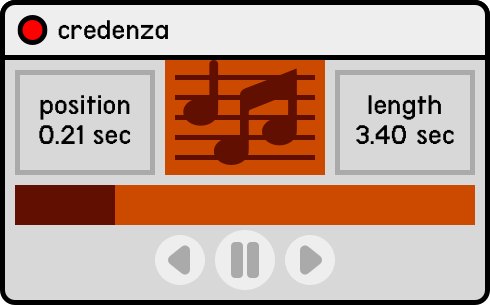
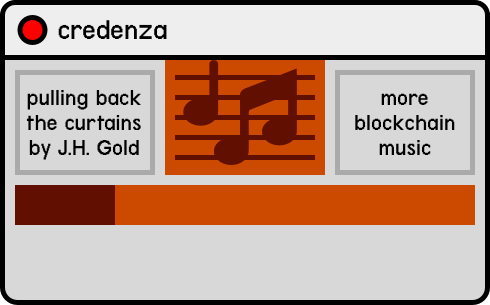
fresh

diff --git a/_sass/_windows.scss b/_sass/_windows.scss
@@ -103,7 +103,7 @@ $content-height: calc(100% - #{$header-height});
 	top: 25%;
 }
 .niftydex.window {
-	// width: 350px;
+	
 	left: 20%;
 	top: 5%;
 }
@@ -113,35 +113,35 @@ $content-height: calc(100% - #{$header-height});
 
 	img.gif {
 		position: absolute;
-		left: 166px;
-		top: 59px;
+		left: 82px;
+		top: 32px;
 		display: none;
+		width: 80px;
 	}
 
 	.link {
 		position: absolute;
-		width: 139px;
-		height: 106px;
-		border: solid 5px transparent;
-		top: 70px;
+		width: 69px;
+		height: 51px;
+		border: solid 3px #f5000000;
+		top: 36px;
 		
 		&.left {
-			left: 15px;
+			left: 8px;
 		}
 		&.right {
-			right: 15px;
+			right: 8px;
 		}
 		&:hover {
-			border: solid 7px #1000ff;
+			border: solid 4px #1000ff;
 		}
 	}
 	audio {
 		position: absolute;
-
 		left: 5%;
-		bottom: 22px;
+		bottom: 11px;
 		width: 90%;
-		height: 110px;
+		height: 29px;
 		&::-webkit-media-controls-panel {
 			background-color: #d8d8d8;
 		}
@@ -171,11 +171,11 @@ $content-height: calc(100% - #{$header-height});
 		opacity: 0;
 		position: absolute;
 
-		top: 108px;
-		left: 70px;
+		top: 79px;
+		left: 52px;
 		border-radius: 200px;
-		height: 210px;
-		width: 210px;
+		height: 150px;
+		width: 150px;
 
 		// background-color: red;
 		background-image: url(/nft/images/stargate.gif);

diff --git a/nft/js/sound.js b/nft/js/sound.js
@@ -25,9 +25,9 @@ function createSound(id, filename) {
 let Sounds = {};
 
 Sounds["clickDown"] = createSound("clickDown", '/assets/sounds/click_down.mp3');
-Sounds["clickUp"] = createSound("clickDown", '/assets/sounds/click_up.mp3');
-Sounds["Music"] = createSound("clickDown", 'https://ipfs.fleek.co/ipfs/bafybeiaxogkjfqcfqrrt25kqkxdy3pzcgz7ctchdjjii5ufapw7bkpuh74');
-Sounds["Fart"] = createSound("clickDown", '/assets/sounds/fart.mp3');
+Sounds["clickUp"] = createSound("clickUp", '/assets/sounds/click_up.mp3');
+Sounds["Music"] = createSound("Music", 'https://ipfs.fleek.co/ipfs/bafybeiaxogkjfqcfqrrt25kqkxdy3pzcgz7ctchdjjii5ufapw7bkpuh74');
+Sounds["Fart"] = createSound("Fart", '/assets/sounds/fart.mp3');
 
 Sounds["clickDown"].load();
 Sounds["clickUp"].load();

diff --git a/nft/js/story.js b/nft/js/story.js
@@ -96,27 +96,21 @@ const desktopStory = [
 	// updater
 ];
 
-
+// Different plotlines for difference devices
 const storyBeats = mobileAndTabletCheck() ? mobileStory : desktopStory;
 
-
-
-let i = 0;
+let beatIndex = 0;
 
 function nextBeat() {
-	i++;
-	console.log("asdf");
-	const playBeat = storyBeats[i];
-
+	beatIndex++;
+	const playBeat = storyBeats[beatIndex];
 	playBeat();
 }
 
 function startStory() {
 	$("body").removeClass("loading");
-
 	nextBeat();
 }
-
 
 // Initial State
 $('.snap.icon').hide();

diff --git a/_apps/snap.html b/_apps/snap.html
@@ -1,12 +1,12 @@
 ---
-src: /nft/apps/micropaint.png
+
 ---
 
 
 <div class="app window {{ page.slug }}">
-	<img src="/nft/images/desktop-portal-1.png" class="kevaid" />
-	<img src="/nft/images/desktop-portal-2.png" class="booting" />
-	<img src="/nft/images/desktop-portal-3.png" class="scan" />
+	<img src="/nft/images/portal-1.png" class="kevaid" />
+	<img src="/nft/images/portal-2.png" class="booting" />
+	<img src="/nft/images/portal-3.png" class="scan" />
 	<div class="space"></div>
 </div>
 

diff --git a/_apps/updater.html b/_apps/updater.html
@@ -1,5 +1,5 @@
 ---
-src: /nft/apps/updater_window.png
+src: /nft/images/window-updater.png
 ---
 
 <div class="app window {{ page.slug }}">

diff --git a/_apps/niftydex.html b/_apps/niftydex.html
@@ -1,5 +1,5 @@
 ---
-src: /nft/apps/niftydex.png
+src: /nft/images/window-niftydex.png
 ---
 
 <div class="app window {{ page.slug }}">

diff --git a/_apps/newgame.html b/_apps/newgame.html
@@ -1,5 +1,5 @@
 ---
-src: /nft/apps/new-game.png
+src: /nft/images/window-newgame.png
 ---
 
 <div class="app window {{ page.slug }}">

diff --git a/_apps/credenza.html b/_apps/credenza.html
@@ -1,5 +1,5 @@
 ---
-src: /nft/credenza.svg
+src: /nft/images/window-credenza.png
 ---
 
 <div class="app window {{ page.slug }}">

diff --git a/_apps/notepad.html b/_apps/notepad.html
@@ -1,5 +1,5 @@
 ---
-src: /nft/apps/notepad.png
+src: /nft/images/window-notepad.png
 ---
 
 
